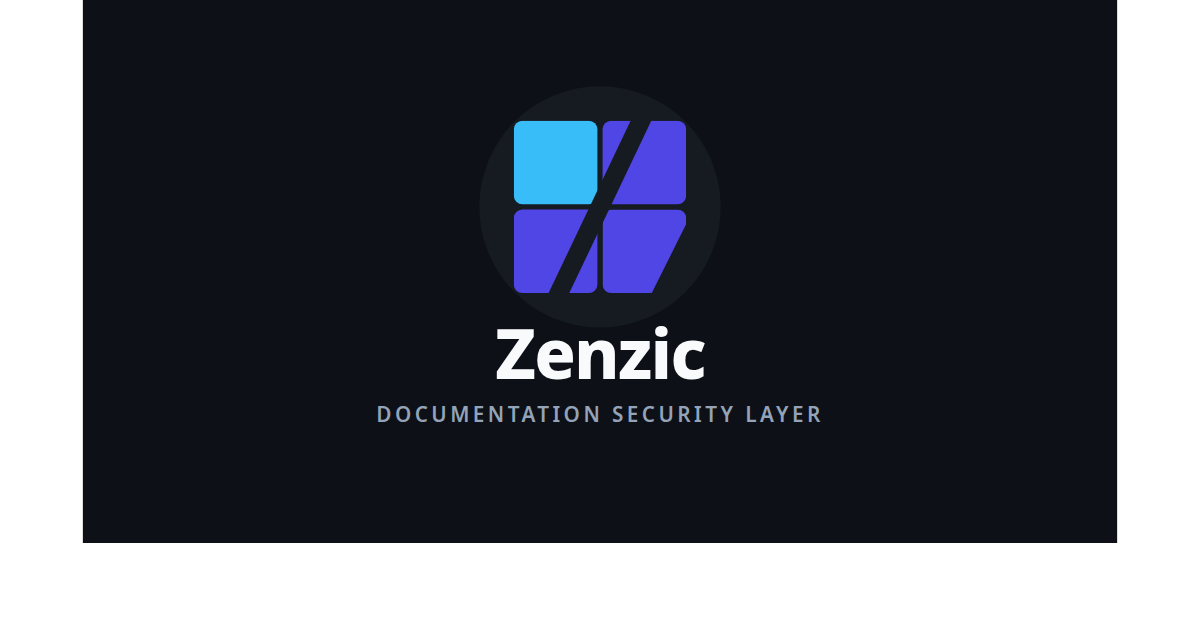
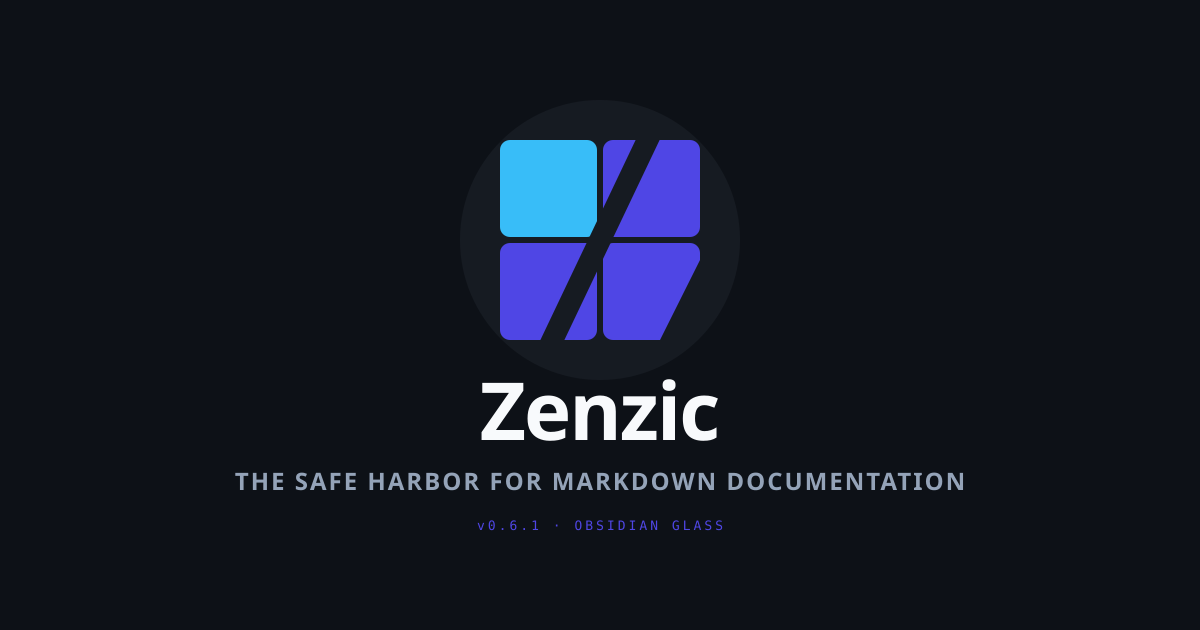
feat: Direttiva 065+066+067 — The Search & Social Fortress
SEO & Open Graph:
- docusaurus.config.ts: image → assets/social/social-card.png (PNG, not SVG);
  metadata: keywords, twitter:card/site/creator, theme-color #4f46e5;
  headTags: canonical https://zenzic.dev/\;
  i18n IT: htmlLang: 'it-IT' (hreflang correct for Google)
- index.tsx: Layout title/description aligned to D064 'Safe Harbor';
  og:type, og:title, og:description, og:image, og:url;
  twitter:title/description/image;
  JSON-LD SoftwareApplication schema (name, version, price:free, category)

Social Card Asset (D067):
- social-card.svg: 'DOCUMENTATION SECURITY LAYER' →
  'THE SAFE HARBOR FOR MARKDOWN DOCUMENTATION';
  subtitle removed; 'v0.6.1 · OBSIDIAN GLASS' version badge added (indigo)
- social-card.png: rendered 1200x630px via rsvg-convert (32KB, < 5MB limit)

Build: clean EN + IT

diff --git a/src/pages/index.tsx b/src/pages/index.tsx
@@ -14,12 +14,34 @@ export default function Home(): React.JSX.Element {
     <Layout
       noFooter
       wrapperClassName="zz-homepage"
-      title="High-performance documentation linter"
-      description="Engineering-grade, engine-agnostic linter and security shield for Markdown documentation."
+      title="Zenzic — The Safe Harbor for Markdown"
+      description="High-performance, engine-agnostic, and security-hardened static analysis for Markdown documentation."
     >
       <div data-theme="dark" className="flex flex-col min-h-screen relative w-full">
         <Head>
-          <meta property="og:title" content="Zenzic - High-performance documentation linter" />
+          <meta property="og:type" content="website" />
+          <meta property="og:title" content="Zenzic — The Safe Harbor for Markdown Documentation" />
+          <meta property="og:description" content="High-performance, engine-agnostic, and security-hardened static analysis. Catch broken links, orphan pages, and leaked credentials before your users do." />
+          <meta property="og:image" content="https://zenzic.dev/assets/social/social-card.png" />
+          <meta property="og:url" content="https://zenzic.dev/" />
+          <meta name="twitter:title" content="Zenzic — The Safe Harbor for Markdown Documentation" />
+          <meta name="twitter:description" content="High-performance, engine-agnostic, and security-hardened static analysis. Catch broken links, orphan pages, and leaked credentials before your users do." />
+          <meta name="twitter:image" content="https://zenzic.dev/assets/social/social-card.png" />
+          <script type="application/ld+json">{JSON.stringify({
+            "@context": "https://schema.org",
+            "@type": "SoftwareApplication",
+            "name": "Zenzic",
+            "operatingSystem": "Linux, macOS, Windows",
+            "applicationCategory": "DeveloperApplication",
+            "softwareVersion": "0.6.1",
+            "description": "High-performance, engine-agnostic, and security-hardened static analysis for Markdown documentation.",
+            "url": "https://zenzic.dev",
+            "offers": {
+              "@type": "Offer",
+              "price": "0",
+              "priceCurrency": "USD"
+            }
+          })}</script>
         </Head>
 
         <main className="flex-grow mt-0 pt-0">

diff --git a/docusaurus.config.ts b/docusaurus.config.ts
@@ -35,7 +35,7 @@ const config: Config = {
     locales: ['en', 'it'],
     localeConfigs: {
       en: { label: 'English' },
-      it: { label: 'Italiano' },
+      it: { label: 'Italiano', htmlLang: 'it-IT' },
     },
   },
 
@@ -68,8 +68,24 @@ const config: Config = {
   ],
 
   themeConfig: {
-    // Social sharing image
-    image: '/assets/social/social-card.svg',
+    // Social sharing image (OG + Twitter Cards)
+    image: 'assets/social/social-card.png',
+    metadata: [
+      {name: 'keywords', content: 'markdown, linter, docusaurus, mkdocs, static analysis, documentation, security, broken links, orphan pages'},
+      {name: 'twitter:card', content: 'summary_large_image'},
+      {name: 'twitter:site', content: '@PythonWoods'},
+      {name: 'twitter:creator', content: '@PythonWoods'},
+      {name: 'theme-color', content: '#4f46e5'},
+    ],
+    headTags: [
+      {
+        tagName: 'link',
+        attributes: {
+          rel: 'canonical',
+          href: 'https://zenzic.dev/',
+        },
+      },
+    ],
     colorMode: {
       defaultMode: 'dark',
       respectPrefersColorScheme: true,
